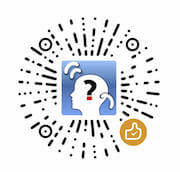
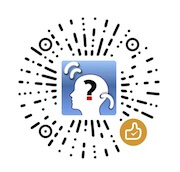
update donate

diff --git a/service-worker.js b/service-worker.js
@@ -1,6 +1,6 @@
 'use strict';
 
-var precacheConfig = [["/index.html","a3bb6518da12240eae80d69798249d30"],["/blog/card/links.html","9427aec7d3fe8f64fdd7ffa41f0e749e"],["/manifest.json","a45152296b07c45b8eea0103c512319f"],["/blog/route.js","ba935a8955b7bbc2d2d47ca0b3a5815a"],["/blog/am-app.js","d2e20dc0c0aedcc967d957a8197ea7f9"],["/node_modules/@webcomponents/webcomponentsjs/webcomponents-loader.js","6faaea1b73a1b28a47c737c013ae0dc6"],["/node_modules/@polymer/lit-element/lit-element.js","ed66c5c22f4d291fab6697e13f56d48c"],["/node_modules/lit-html/lit-html.js","b3ac63e7c372c6f23f70d307667256b9"],["/node_modules/lit-html/lib/until.js","5c149fcee4354ebda36af2e9bb63a79a"],["/node_modules/lit-html/lib/repeat.js","f4cbcb7a4a2b453fa2df5460a7ca3faa"],["/node_modules/lit-html/lib/unsafe-html.js","68d76f033adbaf4fea06ad13cf0980ce"],["/node_modules/pwa-helpers/metadata.js","1e51e7aa2b6ab47705ac8bffb59e08c9"],["/node_modules/pwa-helpers/router.js","e6ab39cdcd7e788261b21c3f8854abe7"],["/node_modules/pwa-helpers/network.js","f617a345081ead70f9f87c3d9caa7fb2"],["/node_modules/pwa-helpers/media-query.js","2220d0bba986b7fd79a2fd52fcc70a1b"],["/node_modules/@polymer/polymer/lib/utils/settings.js","6a0f4f16077d795d1761f8f0a9479f3d"],["/node_modules/@polymer/polymer/lib/mixins/properties-mixin.js","ada233eb1d5d614fcee01c95816db46f"],["/node_modules/@polymer/polymer/lib/utils/case-map.js","478e9b53a30533c8776d410a378ba5b2"],["/node_modules/lit-html/lib/shady-render.js","a77476b03a11424b79374febc0a97a56"],["/node_modules/lit-html/lib/lit-extended.js","18188821f488357c2d47a45d62d22890"],["/node_modules/@polymer/polymer/lib/utils/boot.js","458eb673c1ad5ecc0a81de9a39e2b7f3"],["/node_modules/@polymer/polymer/lib/utils/resolve-url.js","629dc2f004c2602ea2d583f4c68001b2"],["/node_modules/@polymer/polymer/lib/utils/mixin.js","32a83dfee673e8c6dfbc32f4681c9a65"],["/node_modules/@polymer/polymer/lib/mixins/properties-changed.js","07f24b9f6d5be048364800e0fe36a7e8"],["/node_modules/@polymer/polymer/lib/utils/async.js","2a974e258a076e51aba1b45361964c08"],["/blog/components/am-article.js","d4516c47095b714a0095564f5a569752"],["/blog/components/am-banner.js","66f32a9012da199399e3b31857933c72"],["/blog/components/am-card.js","63b9a595495463baf11e021a67f2a52f"],["/blog/components/am-leading.js","ebd92e6baa66ce6a2daaafca5876c528"],["/blog/components/am-link.js","0b67cde04af121e150bdcc061a3880c5"],["/blog/components/am-list.js","5faa4c03224894495b53bd5be4e26d5f"],["/blog/components/am-paging.js","a4411c8c3e128d11480ae4237c437fb0"],["/blog/components/am-summary.js","b31012abd02ee519bed67bccb7032356"],["/blog/components/am-tags.js","bf902cdeb34af58bc2c637f56795b03e"],["/images/mindon.png","3dadbdab38067b4737b2fdbcf0361230"],["/blog/posts/timeline/52.html","e1062f77a9d768aa80f0acca4f66bff4"]];
+var precacheConfig = [["/index.html","a3bb6518da12240eae80d69798249d30"],["/blog/card/links.html","9427aec7d3fe8f64fdd7ffa41f0e749e"],["/manifest.json","a45152296b07c45b8eea0103c512319f"],["/blog/route.js","ba935a8955b7bbc2d2d47ca0b3a5815a"],["/blog/am-app.js","d2e20dc0c0aedcc967d957a8197ea7f9"],["/node_modules/@webcomponents/webcomponentsjs/webcomponents-loader.js","6faaea1b73a1b28a47c737c013ae0dc6"],["/node_modules/@polymer/lit-element/lit-element.js","ed66c5c22f4d291fab6697e13f56d48c"],["/node_modules/lit-html/lit-html.js","b3ac63e7c372c6f23f70d307667256b9"],["/node_modules/lit-html/lib/until.js","5c149fcee4354ebda36af2e9bb63a79a"],["/node_modules/lit-html/lib/repeat.js","f4cbcb7a4a2b453fa2df5460a7ca3faa"],["/node_modules/lit-html/lib/unsafe-html.js","68d76f033adbaf4fea06ad13cf0980ce"],["/node_modules/pwa-helpers/metadata.js","1e51e7aa2b6ab47705ac8bffb59e08c9"],["/node_modules/pwa-helpers/router.js","e6ab39cdcd7e788261b21c3f8854abe7"],["/node_modules/pwa-helpers/network.js","f617a345081ead70f9f87c3d9caa7fb2"],["/node_modules/pwa-helpers/media-query.js","2220d0bba986b7fd79a2fd52fcc70a1b"],["/node_modules/@polymer/polymer/lib/utils/settings.js","6a0f4f16077d795d1761f8f0a9479f3d"],["/node_modules/@polymer/polymer/lib/mixins/properties-mixin.js","ada233eb1d5d614fcee01c95816db46f"],["/node_modules/@polymer/polymer/lib/utils/case-map.js","478e9b53a30533c8776d410a378ba5b2"],["/node_modules/lit-html/lib/shady-render.js","a77476b03a11424b79374febc0a97a56"],["/node_modules/lit-html/lib/lit-extended.js","18188821f488357c2d47a45d62d22890"],["/node_modules/@polymer/polymer/lib/utils/boot.js","458eb673c1ad5ecc0a81de9a39e2b7f3"],["/node_modules/@polymer/polymer/lib/utils/resolve-url.js","629dc2f004c2602ea2d583f4c68001b2"],["/node_modules/@polymer/polymer/lib/utils/mixin.js","32a83dfee673e8c6dfbc32f4681c9a65"],["/node_modules/@polymer/polymer/lib/mixins/properties-changed.js","07f24b9f6d5be048364800e0fe36a7e8"],["/node_modules/@polymer/polymer/lib/utils/async.js","2a974e258a076e51aba1b45361964c08"],["/blog/components/am-article.js","ba626787d2cdf99d9f609d59dab0eaf4"],["/blog/components/am-banner.js","66f32a9012da199399e3b31857933c72"],["/blog/components/am-card.js","63b9a595495463baf11e021a67f2a52f"],["/blog/components/am-leading.js","ebd92e6baa66ce6a2daaafca5876c528"],["/blog/components/am-link.js","0b67cde04af121e150bdcc061a3880c5"],["/blog/components/am-list.js","5faa4c03224894495b53bd5be4e26d5f"],["/blog/components/am-paging.js","a4411c8c3e128d11480ae4237c437fb0"],["/blog/components/am-summary.js","b31012abd02ee519bed67bccb7032356"],["/blog/components/am-tags.js","bf902cdeb34af58bc2c637f56795b03e"],["/images/mindon.png","3dadbdab38067b4737b2fdbcf0361230"],["/blog/posts/timeline/52.html","e1062f77a9d768aa80f0acca4f66bff4"]];
 var cacheName = 'mindon-if-v1--' + (self.registration ? self.registration.scope : '');
 
 

diff --git a/blog/components/am-article.js b/blog/components/am-article.js
@@ -50,8 +50,7 @@ display:inline-block;background:rgba(200,200,200,.2)}
 #thumbs-up {
 display:block;text-decoration:none;
 width:180px;height:190px;
-text-align:center;font-size:7pt;color:#ccc;
-background:url(/images/thumbs-up.jpg) no-repeat center bottom;margin:1em auto}
+text-align:center;font-size:7pt;color:#ccc;margin:1em auto}
 </style>${dcc}<div>
 <div id="mydock">${
 !nav?html`<a class="home" href="/">❜❜❜</a>`:
@@ -66,7 +65,7 @@ ${nav.next?html`<a id="mynext" href$="${nav.next.href}" title$="${nav.next.title
 <div class="meta">
 <div>POSTED IN <am-tags query="/blog/tags/%s" tags=${tags.substr(1, tags.length - 2).split(' ')}></am-tags><i>${time}</i> &nbsp; </div>
 <p><a id="thumbs-up" href="https://www.paypal.com/cgi-bin/webscr?cmd=_s-xclick&hosted_button_id=YSVEJMBLM3AFG">
-click to donate $0.99 by Paypal<br/>微信扫码赞赏</a></p>
+click to donate $0.99 by Paypal<br/>微信扫码赞赏<br/><img src="/images/thumbs-up.jpg" width="180" height="172" alt="WeChat Code" /></a></p>
 <div class="flex"><slot name="next" title="Newer Post" on-changed=${this._slotChanged}></slot><slot name="prev" title="Older Post" on-change=${this._slotChanged}></slot></div>
 </div>
 </div>
